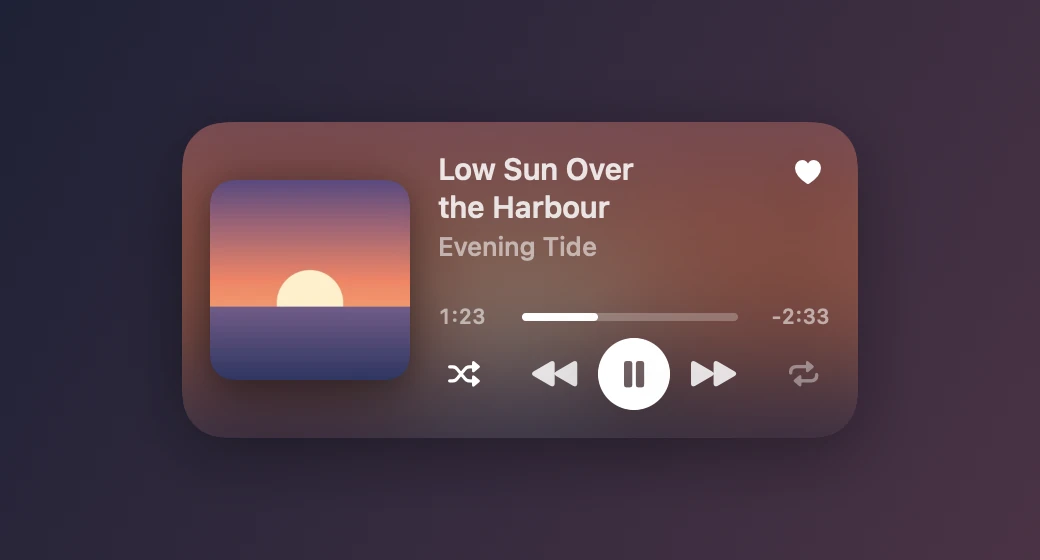
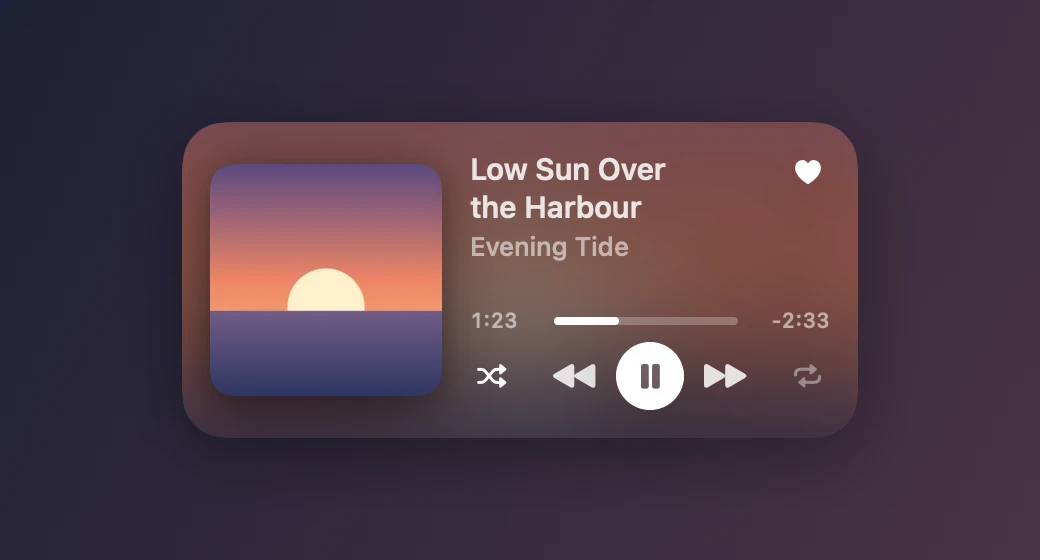
Bigger cover, smaller buttons, so the two button groups read apart

Changed region(s): [[0.1846, 0.2732, 0.7385, 0.7286], [0.7385, 0.5464, 0.8, 0.6071], [0.7385, 0.6375, 0.8, 0.6982]]

diff --git a/NowPlayingWidget/WidgetView.swift b/NowPlayingWidget/WidgetView.swift
@@ -56,7 +56,7 @@ struct WidgetView: View {
     /// Fixed, so the buttons beside it get a predictable amount of room.
     private var cover: some View {
         Color.clear
-            .frame(width: 100, height: 100)
+            .frame(width: 116, height: 116)
             .overlay {
                 if let artwork {
                     // fullColor, or the clear and tinted desktop styles paint the cover as a flat block.
@@ -160,13 +160,13 @@ struct WidgetView: View {
                 .fill(.white)
                 .overlay {
                     Image(systemName: state.isPlaying ? "pause.fill" : "play.fill")
-                        .font(.system(size: 15, weight: .bold))
+                        .font(.system(size: 14, weight: .bold))
                         .offset(x: state.isPlaying ? 0 : 1.5)   // optical centre of the triangle
                         .contentTransition(.symbolEffect(.replace))
                         .blendMode(.destinationOut)
                 }
                 .compositingGroup()
-                .frame(width: 36, height: 36)
+                .frame(width: 34, height: 34)
                 .invalidatableContent()
         }
         .buttonStyle(.plain)
@@ -174,12 +174,12 @@ struct WidgetView: View {
     }
 
     private func skipButton(_ command: PlayerCommand, symbol: String, label: String) -> some View {
-        button(command, symbol: symbol, size: 16, weight: .semibold, width: 30, label: label)
+        button(command, symbol: symbol, size: 15, weight: .semibold, width: 28, label: label)
     }
 
     /// Shuffle and repeat: lit when on, dimmed when off.
     private func toggleButton(_ command: PlayerCommand, symbol: String, on: Bool, label: String) -> some View {
-        button(command, symbol: symbol, size: 13, weight: .bold, width: 26, label: label)
+        button(command, symbol: symbol, size: 12, weight: .bold, width: 22, label: label)
             .foregroundStyle(on ? AnyShapeStyle(.white) : AnyShapeStyle(.white.opacity(0.4)))
             .accessibilityValue(on ? "On" : "Off")
     }
